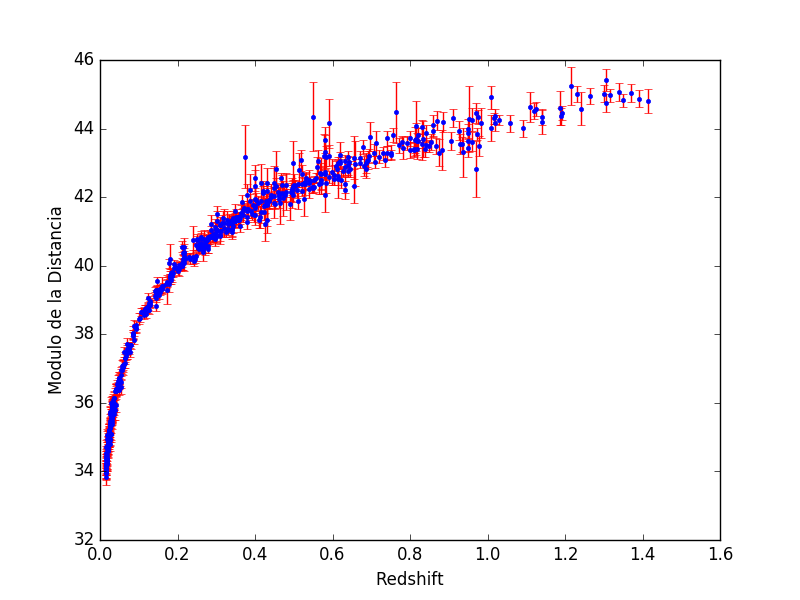
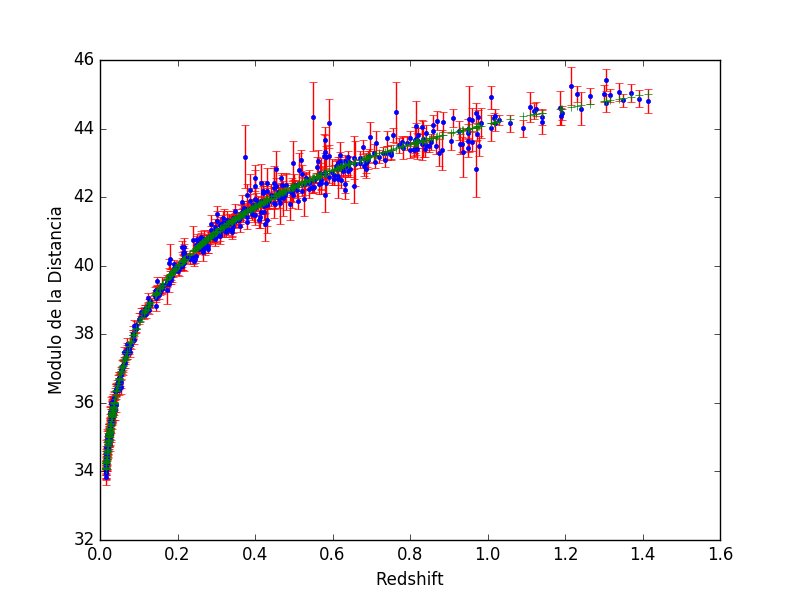
graficos extras
nuevos graficos para ver como se comportan las soluciones obtenidas de
acuerdo a los datos previos. al parecer la integracion y optimizacion
esta bien, mas aun, los resultados esperados no calzan tan bien con los
datos. debo mejorar esto o entender que esta pasando

diff --git a/graficos_basicos.py b/graficos_basicos.py
@@ -43,10 +43,11 @@ def graficar(z, mu):
     plt.show()
 
 
-def graficar_errores(z, mu, mu_err):
+def graficar_varios(z, mu, mu_err, p):
     '''
     solo se agregan barras de errores
     '''
+    mu_nuevo = mu_th(p, z)
     fig = plt.figure()
     fig.clf()
     ax1 = fig.add_subplot(111)
@@ -55,6 +56,7 @@ def graficar_errores(z, mu, mu_err):
          barsabove=False, lolims=False, uplims=False,
          xlolims=False, xuplims=False, errorevery=1,
          capthick=None)
+    ax1.plot(z, mu_nuevo, '+')
     ax1.set_xlabel("Redshift")
     ax1.set_ylabel("Modulo de la Distancia")
     plt.legend(loc=4)
@@ -63,6 +65,90 @@ def graficar_errores(z, mu, mu_err):
     plt.show()
 
 
+def graficar_teorica(p, z):
+    '''
+    grafica el mu teorico segun la aproximacion de chi cuadrado de intento1.py
+    '''
+    mu = mu_th(p, z)
+    fig1 = plt.figure()
+    fig1.clf()
+    ax1 = fig1.add_subplot(111)
+    ax1.plot(z, mu, '+')
+    ax1.set_xlabel("X")
+    ax1.set_ylabel("W(x)")
+    plt.savefig("a.png")
+    plt.draw()
+    plt.show()
+
+
+def leer_resultado(nombre):
+    '''
+    lee los resultados obtenidos en intento1.py
+    nombre debe ser str
+    '''
+    datos = np.loadtxt(nombre, usecols=(1, 2, 3))
+    d_m = datos[:, 0]
+    d_de = datos[:, 1]
+    mu_0 = datos[:, 2]
+    return d_m, d_de, mu_0
+
+
+def mu_th(p, z):
+    '''
+    modulo de la distancia dependiente del redshift
+    '''
+    omega_m, omega_de, mu_00 = p
+    N = z.size
+    mu_0 = mu_00 * np.ones(N)
+    p = 5 * np.log10(d_l(omega_m, omega_de, z))
+    mu = 5 * np.log10(d_l(omega_m, omega_de, z)) + mu_0
+    return mu
+
+
+def d_l(omega_m, omega_de, z):
+    '''
+    distancia de luminosidad
+    '''
+    '''
+    d = (1 + z) * integral(omega_m, omega_de, z)
+    return d
+    d = np.zeros(z.size)
+    for i in range(z.size):
+        d[i] = (1 + z[i]) * integral(omega_m, omega_de, z[i])
+    return d
+    '''
+    dist = []
+    for i in range(0, z.size):
+        if z.size == 1:
+            da = (1 + z) * integral(omega_m, omega_de, z)
+        else:
+            da = (1 + z[i]) * integral(omega_m, omega_de, z[i])
+        dist.append(da)
+    return dist
+
+
+def integral(omega_m, omega_de, z):
+    '''
+    integral que incluye el parametro de hubble
+    '''
+    #print z
+    I = quad(f_integrar, 0, z, args=(omega_m, omega_de)) # revisar args!!!!
+    #print I
+    return I[0]
+
+
+def f_integrar(z, omega_m, omega_de):
+    '''
+    parametro de hubble normalizado por la constante de hubble
+    '''
+    h = omega_m * (z + 1) ** 3 + omega_de + (z + 1) ** 2 * (1 - omega_m - omega_de)
+    #print h
+    return 1 / h
+
+
 #inicializacion
+#p_0 = 0.3, 0.7, 43
+p_0 = 0.16581, 0.9403, 43.15
 z_exp, mu_exp, mu_err = leer_archivo('SnIa_data.txt')
-graficar_errores(z_exp, mu_exp, mu_err)
+graficar_varios(z_exp, mu_exp, mu_err, p_0)
+#graficar_teorica(p_0, z_exp)

diff --git a/intento1.py b/intento1.py
@@ -21,7 +21,6 @@ def leer_archivo(nombre):
     lee el archivo
     nombre debe ser un str
     '''
-    #datos = np.loadtxt(nombre, dtype=[('f0',str),('f1',float),('f2',float),('f3',float)])
     datos = np.loadtxt(nombre, usecols=(1, 2, 3))
     z = datos[:, 0]
     mu = datos[:, 1]
@@ -110,4 +109,6 @@ p0 = 0.3, 0.7, 43
 z_exp, mu_exp, err_mu = leer_archivo('SnIa_data.txt')
 b = residuo_modelo(p0, z_exp[0], mu_exp[0])
 a = optimizar(residuo_modelo, p0, z_exp, mu_exp)
-print a
+print a[0]
+print chi_cuadrado(a[0], z_exp, mu_exp, mu_th), chi_cuadrado(p0, z_exp, mu_exp, mu_th)
+np.save('resultados1.txt', a)
